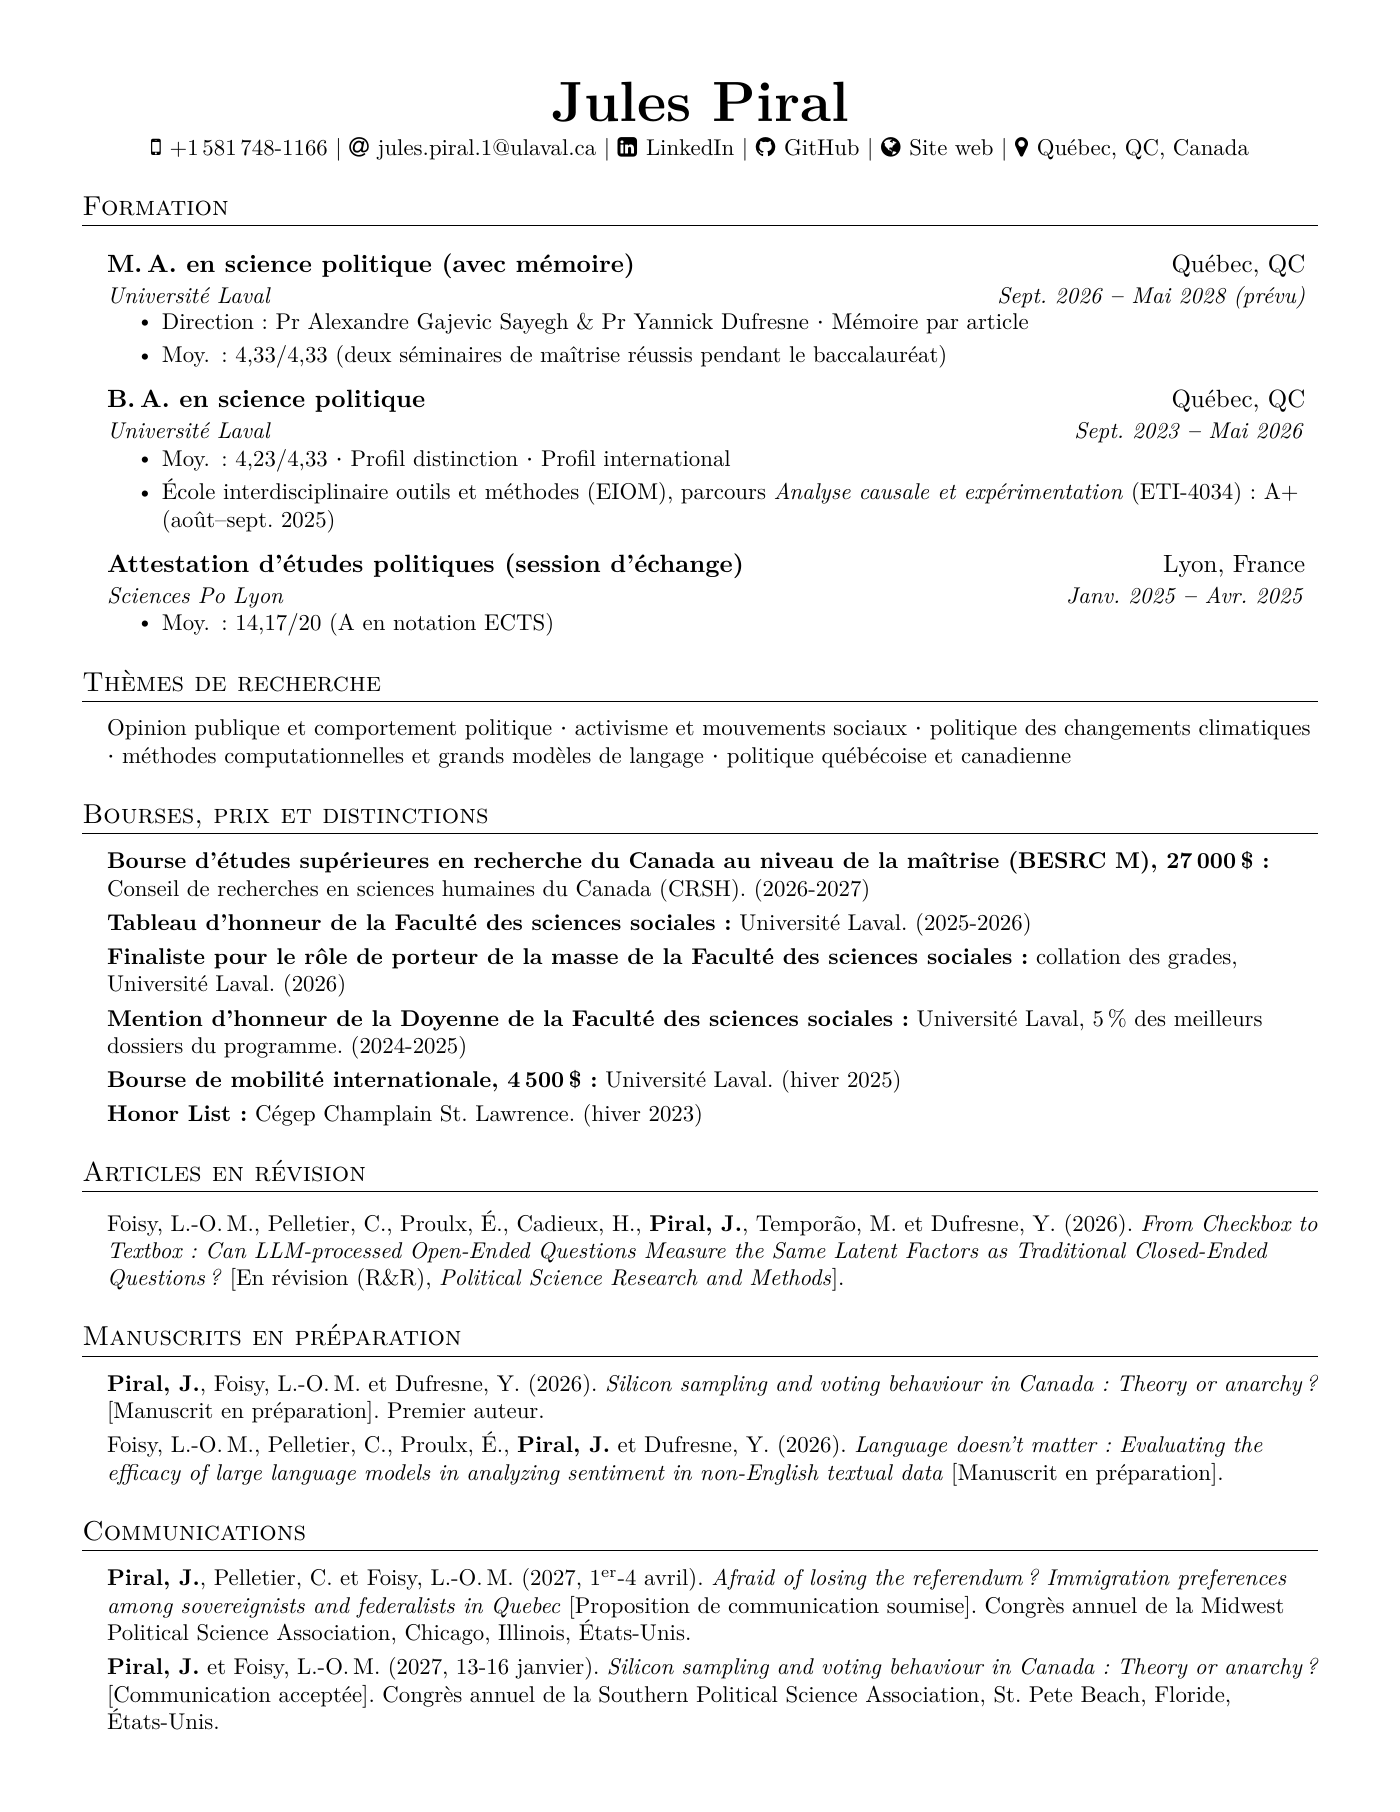
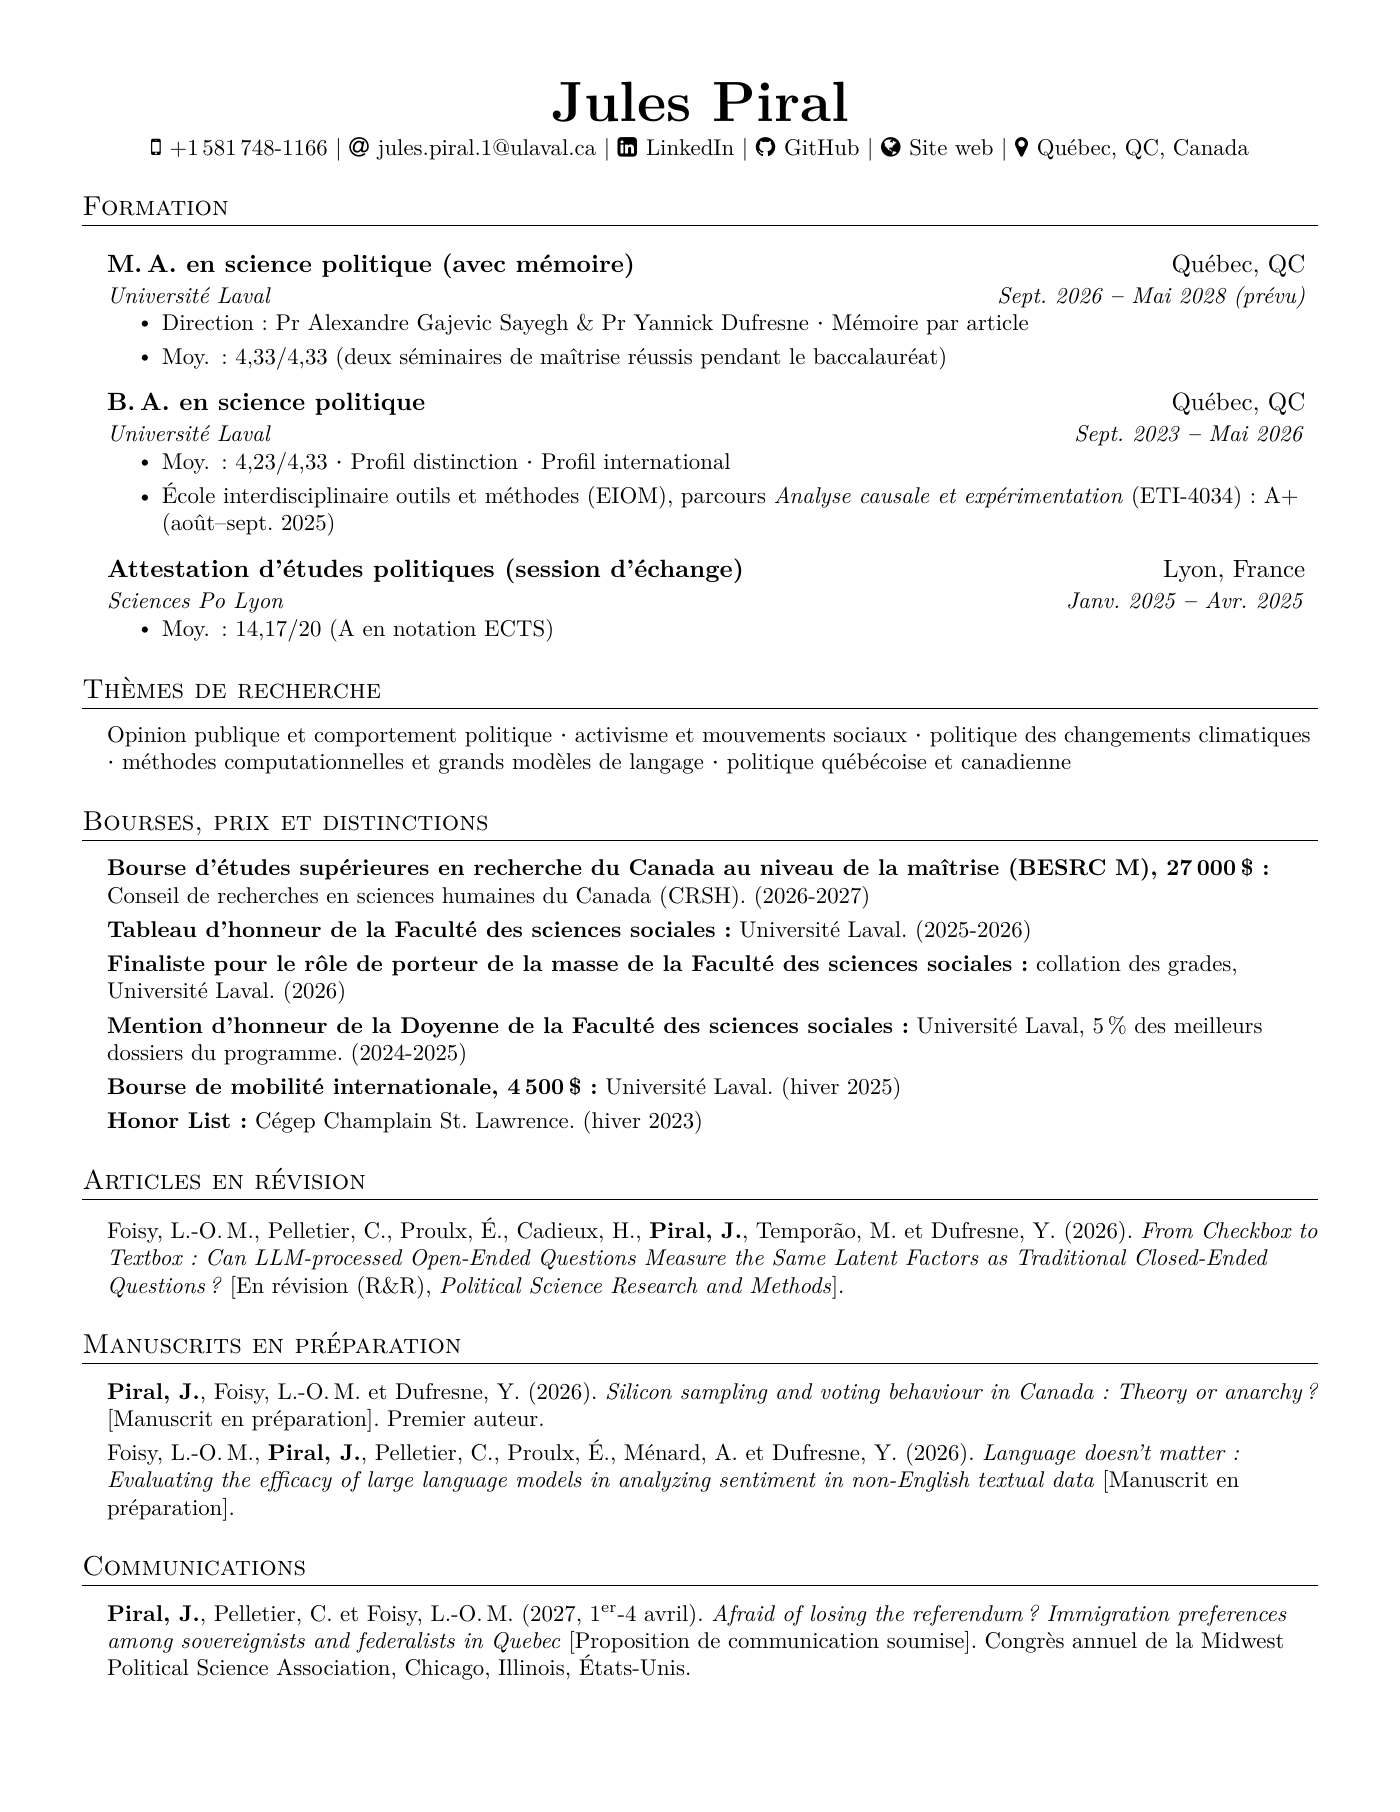
Update authors of Language doesn't matter (Jules Piral 2nd, Adam Ménard 5th)

diff --git a/content/en/research.md b/content/en/research.md
@@ -19,7 +19,7 @@ description: Research interests, manuscripts, and research positions of Jules Pi
 
 <ul class="refs">
 <li><strong>Piral, J.</strong>, Foisy, L.-O. M., &amp; Dufresne, Y. (2026). <em>Silicon sampling and voting behaviour in Canada: Theory or anarchy?</em> [Manuscript in preparation].</li>
-<li>Foisy, L.-O. M., Pelletier, C., Proulx, É., <strong>Piral, J.</strong>, &amp; Dufresne, Y. (2026). <em>Language doesn't matter: Evaluating the efficacy of large language models in analyzing sentiment in non-English textual data</em> [Manuscript in preparation].</li>
+<li>Foisy, L.-O. M., <strong>Piral, J.</strong>, Pelletier, C., Proulx, É., Ménard, A., &amp; Dufresne, Y. (2026). <em>Language doesn't matter: Evaluating the efficacy of large language models in analyzing sentiment in non-English textual data</em> [Manuscript in preparation].</li>
 </ul>
 
 ## Presentations

diff --git a/content/fr/research.md b/content/fr/research.md
@@ -20,7 +20,7 @@ description: Thèmes de recherche, manuscrits et expérience de recherche de Jul
 
 <ul class="refs">
 <li><strong>Piral, J.</strong>, Foisy, L.-O. M. et Dufresne, Y. (2026). <em>Silicon sampling and voting behaviour in Canada: Theory or anarchy?</em> [Manuscrit en préparation].</li>
-<li>Foisy, L.-O. M., Pelletier, C., Proulx, É., <strong>Piral, J.</strong> et Dufresne, Y. (2026). <em>Language doesn't matter: Evaluating the efficacy of large language models in analyzing sentiment in non-English textual data</em> [Manuscrit en préparation].</li>
+<li>Foisy, L.-O. M., <strong>Piral, J.</strong>, Pelletier, C., Proulx, É., Ménard, A. et Dufresne, Y. (2026). <em>Language doesn't matter: Evaluating the efficacy of large language models in analyzing sentiment in non-English textual data</em> [Manuscrit en préparation].</li>
 </ul>
 
 ## Communications
